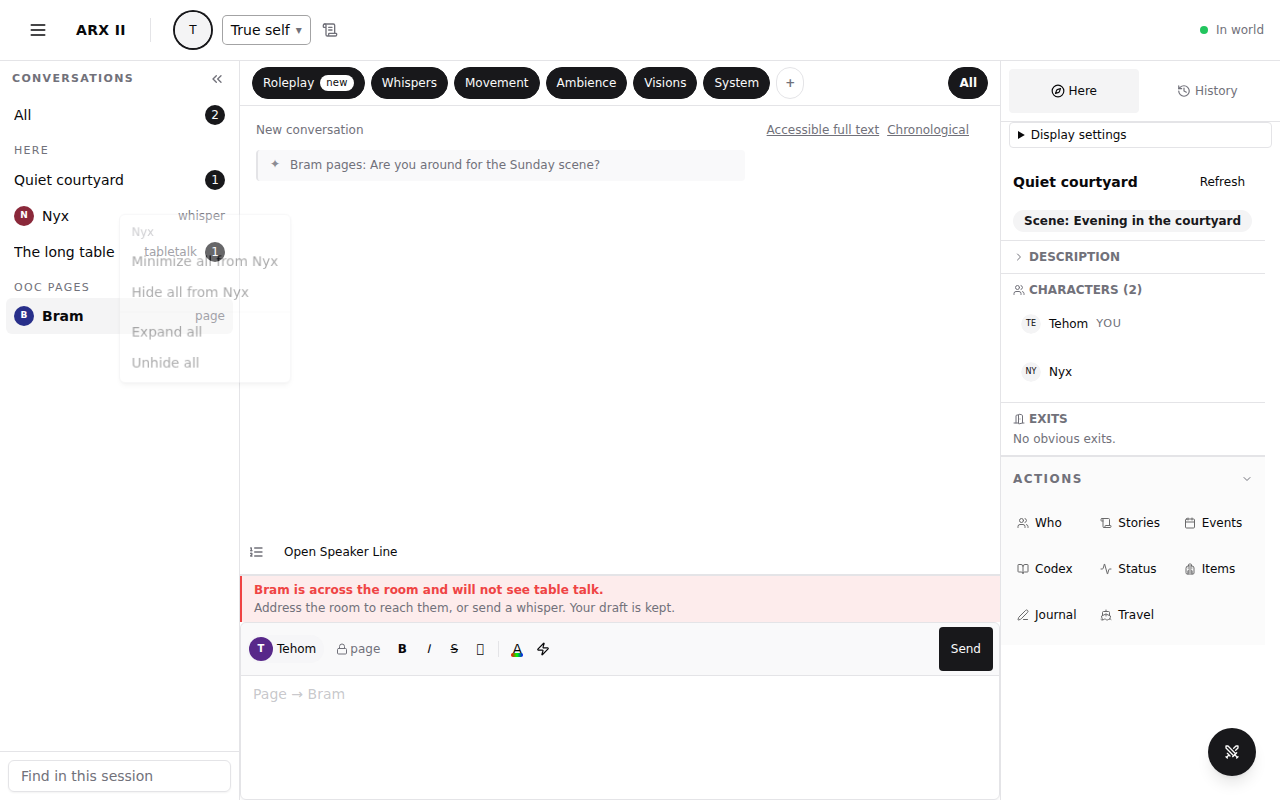
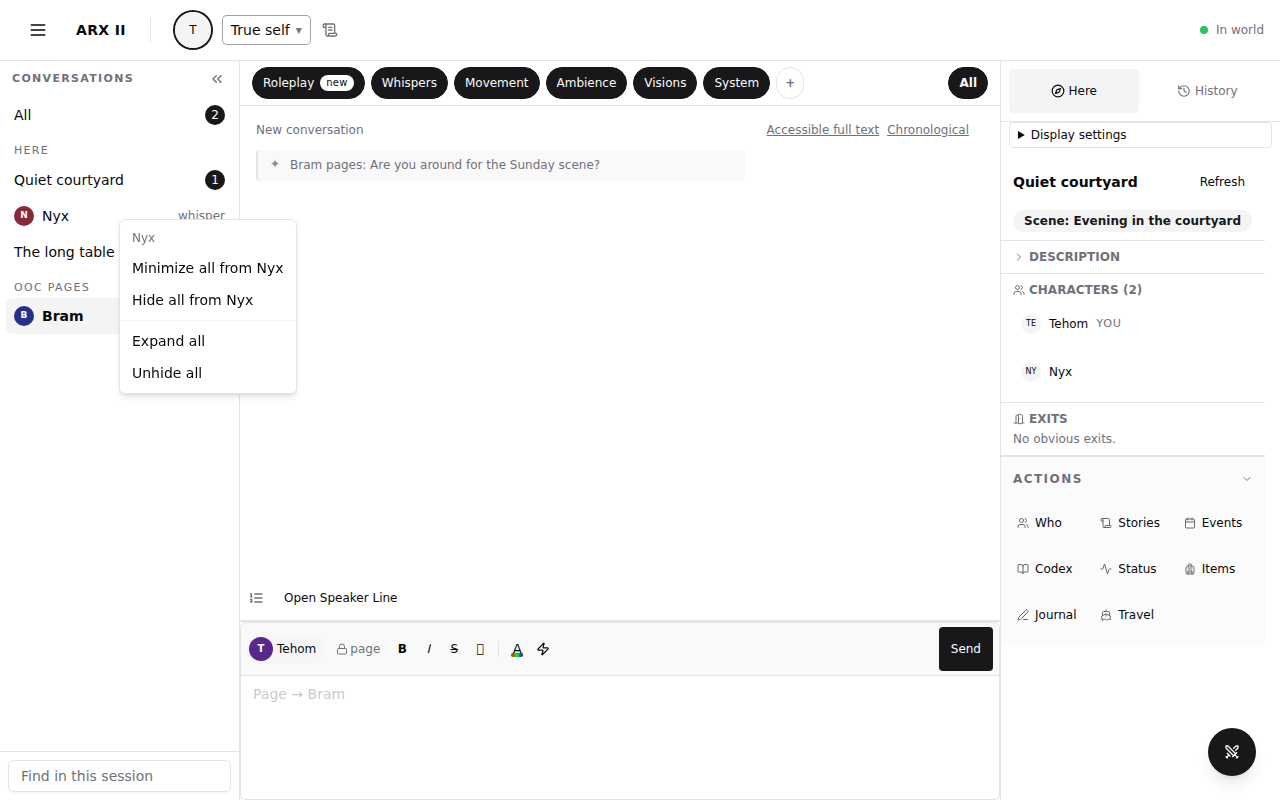
A page reaches its correspondent wherever they stand, so a page row shows no table-talk refusal (#4129)
Found by the demo-fidelity review: the composer's reachability check treated
the page mode like a room-heard address. Evidence re-shot with the menu
settled and the empty find's quiet line added.

Changed region(s): [[0.1875, 0.6875, 0.5312, 0.7812], [0.0938, 0.25, 0.2188, 0.5]]

diff --git a/frontend/e2e/evidence/conversation-rail-4129.spec.ts b/frontend/e2e/evidence/conversation-rail-4129.spec.ts
@@ -130,6 +130,8 @@ test.describe('the conversation rail (#4129)', () => {
     // A page row addresses the composer to its correspondent and shows the page alone.
     await pages.getByRole('button', { name: /^Bram\s+page/ }).click();
     await expect(page.getByText('Page → Bram')).toBeVisible();
+    // A page reaches its correspondent wherever they stand: no table-talk refusal.
+    await expect(page.getByText(/will not see table talk/)).toHaveCount(0);
     await expect(page.getByText(/Are you around for the Sunday scene/)).toBeVisible();
     await expect(page.getByText('Meet me by the east gate after.')).toHaveCount(0);
     // A row is read once it has been on screen a moment, like a thread.
@@ -152,6 +154,9 @@ test.describe('the conversation rail (#4129)', () => {
       'Expand all',
       'Unhide all',
     ]);
+    // Let the menu's open transition settle so the capture is legible.
+    await expect.poll(async () => menu.evaluate((el) => getComputedStyle(el).opacity)).toBe('1');
+    await page.waitForTimeout(250);
     await page.screenshot({ path: shot('rail-person-menu-1280.png'), fullPage: true });
     await page.keyboard.press('Escape');
     await expect(menu).toHaveCount(0);
@@ -169,6 +174,7 @@ test.describe('the conversation rail (#4129)', () => {
     await expect(page.getByTestId('feed-find-empty')).toHaveText(
       'Nothing in this session says that.'
     );
+    await page.screenshot({ path: shot('rail-find-empty-1280.png'), fullPage: true });
     await find.press('Escape');
     await expect(find).toHaveValue('');
     await expect(page.getByText('glances toward the noise, unhurried.')).toBeVisible();

diff --git a/frontend/src/scenes/tagReachability.ts b/frontend/src/scenes/tagReachability.ts
@@ -44,9 +44,11 @@ function describeUnreachableTargets(names: string[]): string {
  * prose (which is never sent to the server as a target at all). `mode` is
  * `composerMode.command`: whisper is always reachable for its own named
  * targets (receiver-based, never location-based, mirroring
- * `persona_can_receive`'s whisper branch); every other mode checks physical
- * presence only (room-heard), except `tt` (Tabletalk), which is Place-scoped
- * and additionally requires the target share the actor's own current Place.
+ * `persona_can_receive`'s whisper branch), and so is a page (#4129), which is
+ * OOC and reaches its correspondent wherever they stand; every other mode
+ * checks physical presence only (room-heard), except `tt` (Tabletalk), which
+ * is Place-scoped and additionally requires the target share the actor's own
+ * current Place.
  */
 export function tagReachability(
   targetNames: string[],
@@ -54,7 +56,7 @@ export function tagReachability(
   mode: string,
   venue: ViewerVenue
 ): TagRefusal {
-  if (targetNames.length === 0 || mode === 'whisper') {
+  if (targetNames.length === 0 || mode === 'whisper' || mode === 'page') {
     return REACHABLE;
   }
 

diff --git a/frontend/src/scenes/__tests__/tagReachability.test.ts b/frontend/src/scenes/__tests__/tagReachability.test.ts
@@ -46,6 +46,15 @@ describe('tagReachability', () => {
     expect(result.reachable).toBe(true);
   });
 
+  it('is reachable for a page regardless of location, so a page row never shows a table-talk refusal (#4129)', () => {
+    const result = tagReachability(['Bram'], [], 'page', {
+      isAtPlace: true,
+      currentPlaceId: 5,
+      currentPlaceName: 'The long table',
+    });
+    expect(result.reachable).toBe(true);
+  });
+
   it('is reachable for a whisper regardless of location', () => {
     const result = tagReachability(['Vayne'], room, 'whisper', {
       isAtPlace: true,
